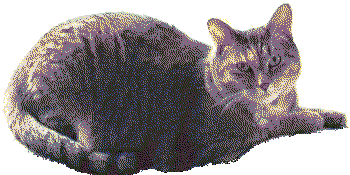
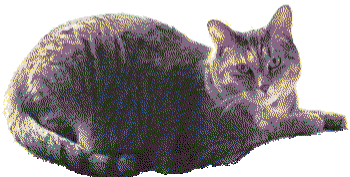
font size

diff --git a/public/projects/index.html b/public/projects/index.html
@@ -87,7 +87,7 @@
             <img src="/images/banners/hackclub.png">
         </div>
 
-        <p class="center copywrite">© 2026 Silas Unger</p>
+        <p class="center copywrite"></p>
         <script src="/parallax.js"></script>
         <script src="/lightbox.js"></script>
         <script src="projects.js"></script>

diff --git a/public/photos/index.html b/public/photos/index.html
@@ -131,7 +131,7 @@
             </div>
         </div>
 
-        <p class="center copywrite">© 2026 Silas Unger</p>
+        <p class="center copywrite"></p>
         <script src="/lightbox.js"></script>
         <script src="/parallax.js"></script>
     </body>

diff --git a/public/index.html b/public/index.html
@@ -287,7 +287,7 @@
             </div>
         </div>
 
-        <p class="center copywrite">© 2026 Silas Unger</p>
+        <p class="center copywrite"></p>
         
         <script src="/parallax.js"></script>
         <script src="/spotify.js"></script>

diff --git a/public/admin/index.html b/public/admin/index.html
@@ -657,7 +657,7 @@
 
 </div>
 
-<p class="center copywrite">© 2026 Silas Unger</p>
+<p class="center copywrite"></p>
 
 <script src="/admin/music.js"></script>
 

diff --git a/public/style.css b/public/style.css
@@ -8,7 +8,7 @@ body {
     margin: 0;
     padding: 0;
 
-    font-size: 25px;
+    font-size: 22px;
     color: #E3D8D8;
 }
 
